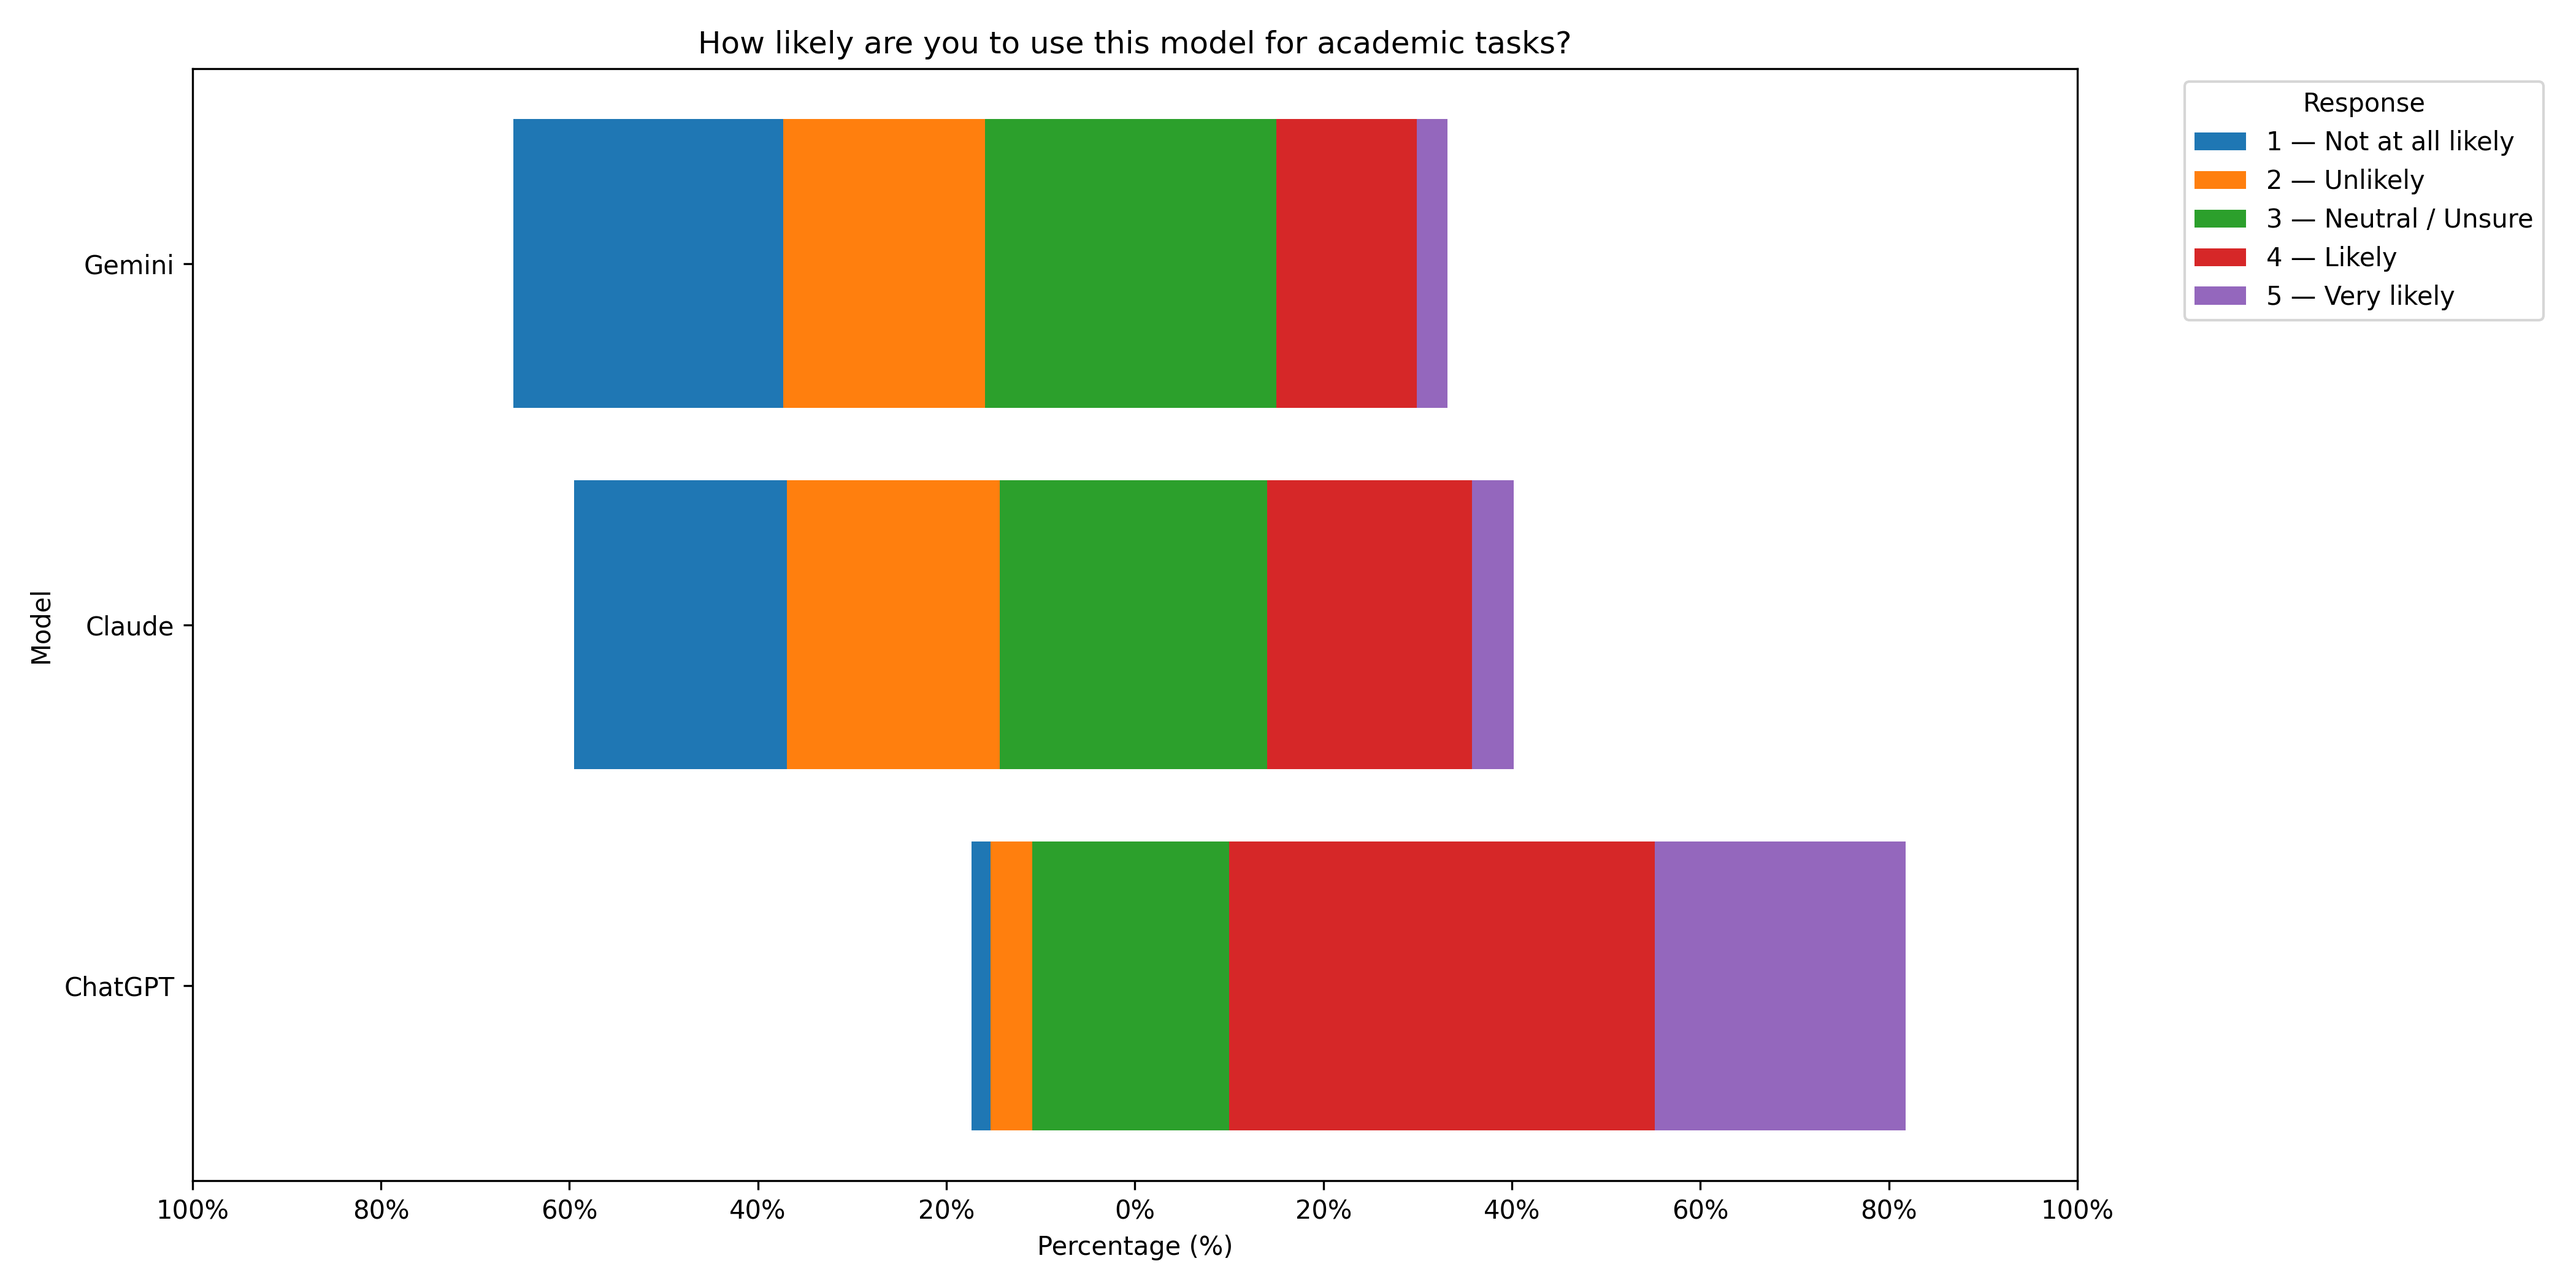
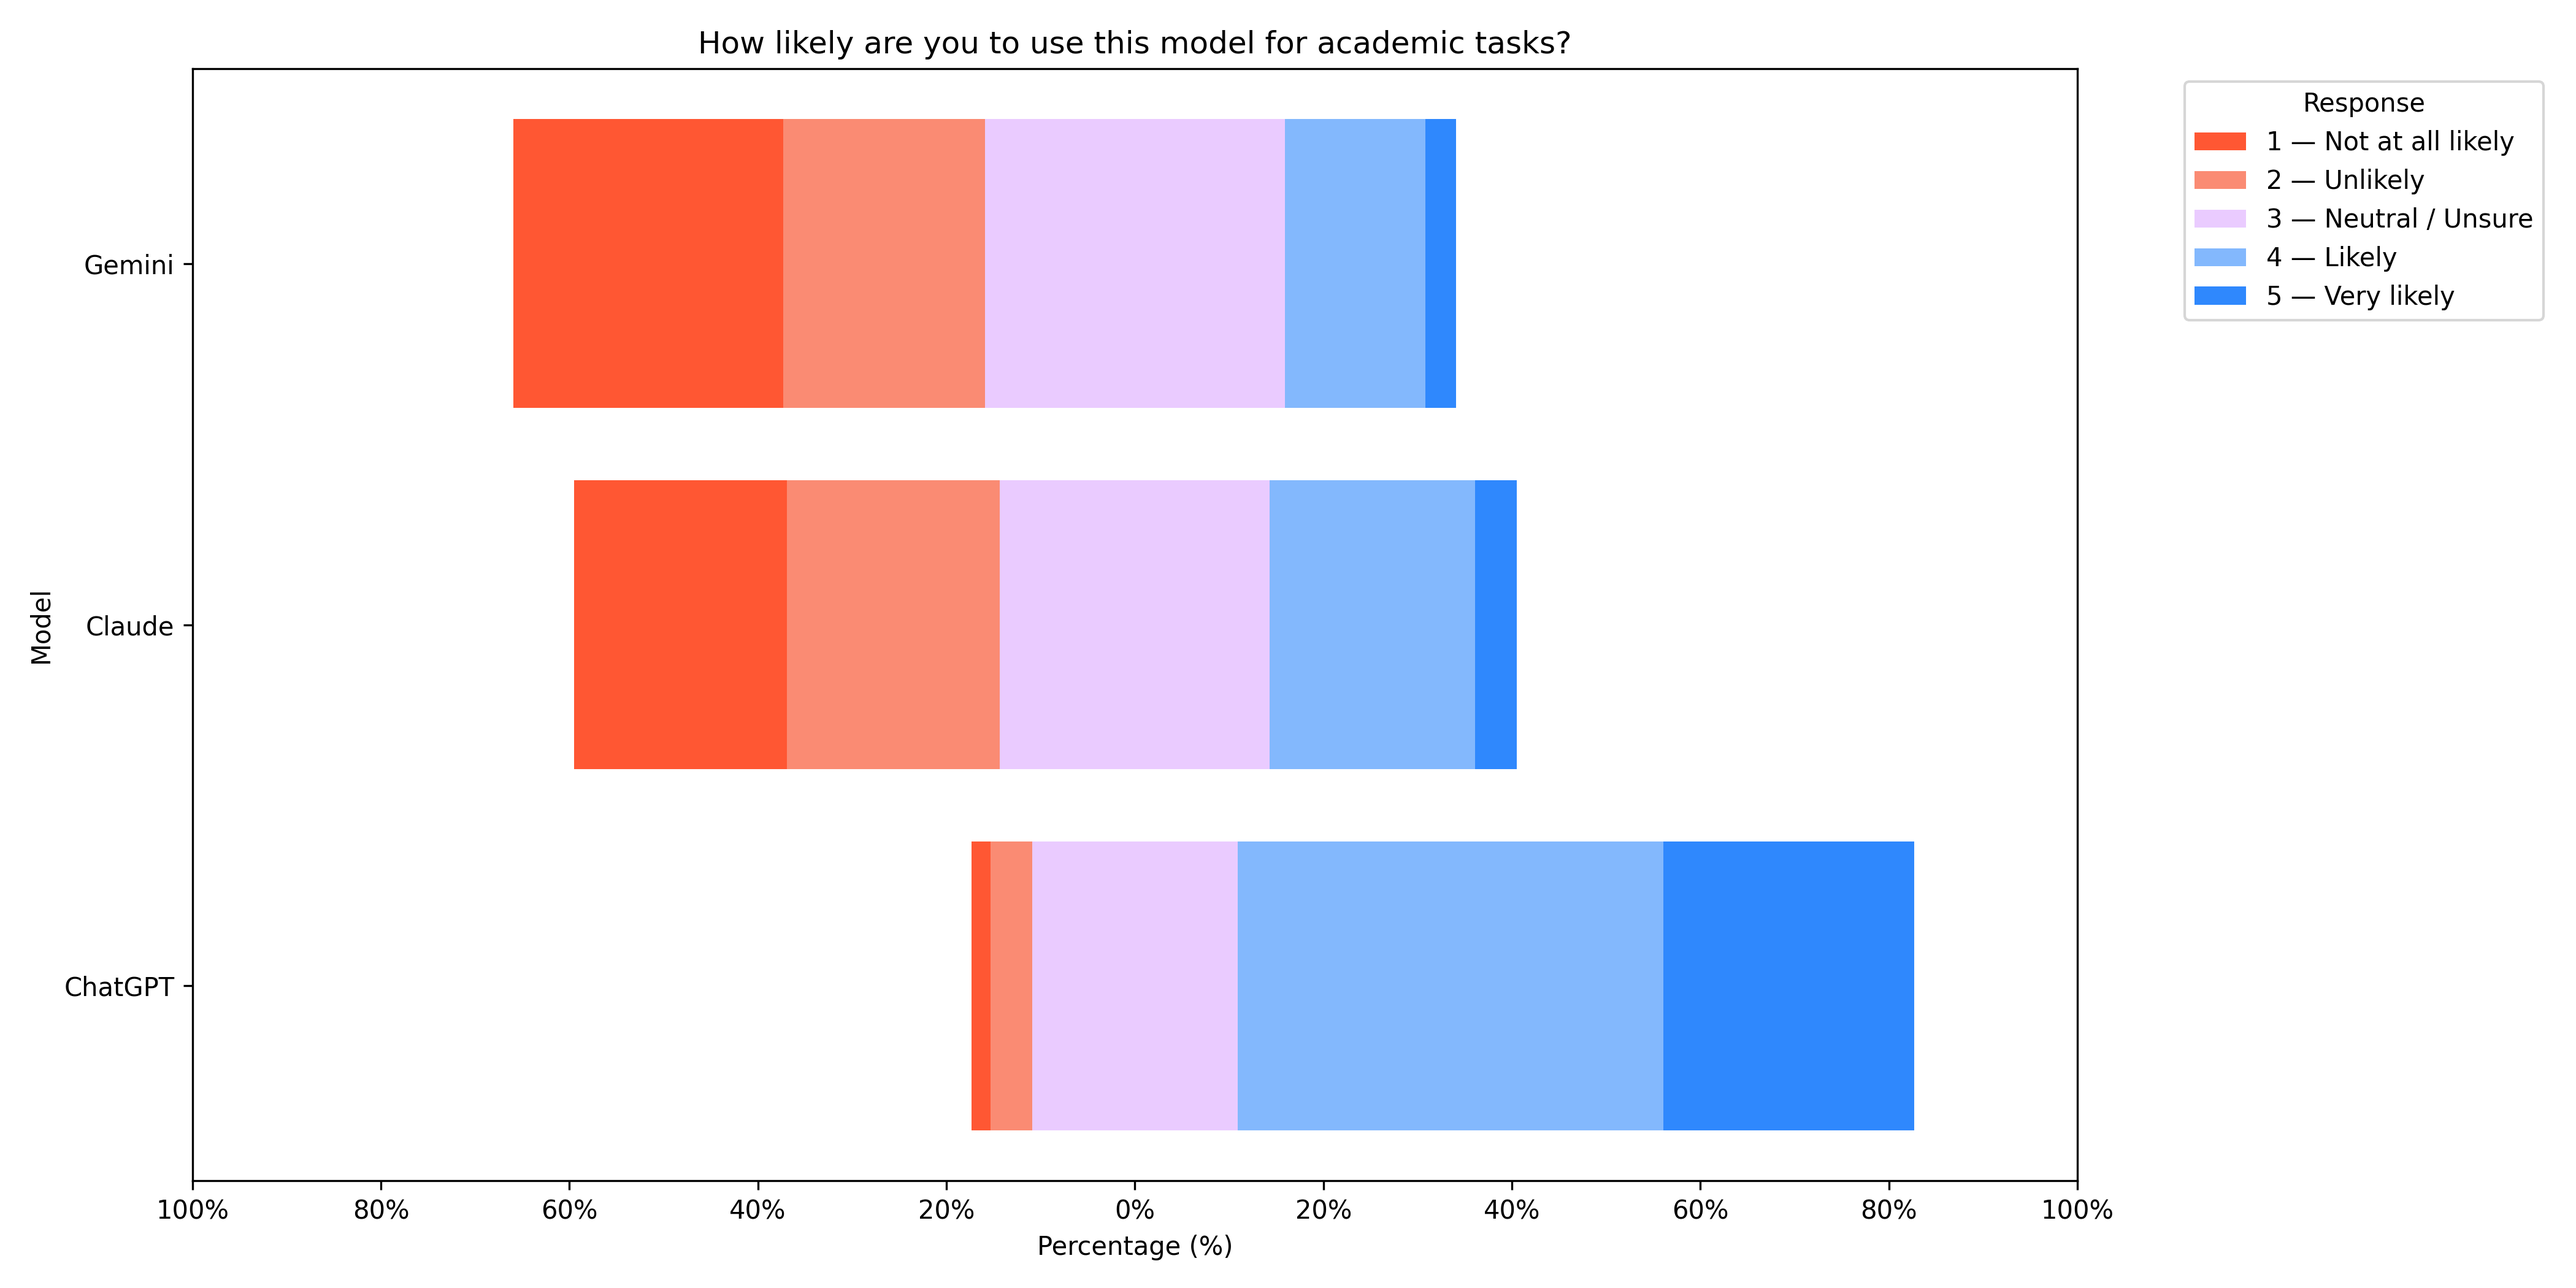
changed colour of plots & fixed code

diff --git a/scripts/eda.py b/scripts/eda.py
@@ -4,6 +4,7 @@ from pathlib import Path
 import matplotlib.pyplot as plt
 import numpy as np
 
+#categories
 multiple_categorical_col = ['Which types of tasks do you feel this model handles best? (Select all that apply.)', 
                    'For which types of tasks do you feel this model tends to give suboptimal responses? (Select all that apply.)']
 
@@ -15,6 +16,9 @@ single_categorical_col = ['How likely are you to use this model for academic tas
 long_response_col = ['In your own words, what kinds of tasks would you use this model for?',
                      'Think of one task where this model gave you a suboptimal response. What did the response look like, and why did you find it suboptimal?',
                     'When you verify a response from this model, how do you usually go about it?' ]
+
+#colors for likhert plot
+colors = ["#FF5733", "#FA8B73", "#EACBFF", "#83B8FD", "#2F88FD"]
 
 
 #reading in data, get just first 743
@@ -39,7 +43,7 @@ def num_long_response(n: int):
     return dic
 
 #plot single categorical across labels, likhert plot
-def plot_single_category(categories = single_categorical_col):
+def likhert_plot(categories = single_categorical_col):
     for category in categories:
         plt.figure(figsize=(14, 7))
 
@@ -56,46 +60,26 @@ def plot_single_category(categories = single_categorical_col):
         temp['int_y'] = temp['int_y'].astype(int)
 
         # count responses by label and integer value & convert to %
-        counts = temp.groupby(['label', 'int_y']).size().unstack(fill_value=0)
+        counts = temp.groupby(['label', 'int_y'], observed = False).size().unstack(fill_value=0)
         counts = counts.div(counts.sum(axis=1), axis=0) * 100
 
         # plot likhert
         midpoint = 3
+        color_index  = 0
 
-        # separate negative and positive sides
         neg_cols = sorted([col for col in counts.columns if col < midpoint])
-        pos_cols = sorted([col for col in counts.columns if col > midpoint])
 
-        # plot negative side
-        left_pos = -counts[neg_cols].sum(axis=1) - counts[3] / 2
-        for col in neg_cols:  # plot in order: 1, 2
+        left_pos = -counts[neg_cols].sum(axis = 1) - counts[3] / 2
+        for col in counts.columns:
             plt.barh(
                 counts.index,
                 counts[col],
                 left=left_pos,
-                label=str(col)
+                label=str(col),
+                color = colors[color_index]
             )
             left_pos += counts[col]
-
-        #plot neutral
-        left_pos = -counts[3] / 2
-        plt.barh(
-            counts.index,
-            counts[3],
-            left = left_pos,
-            label = str(col)
-        )
-
-        # plot positive side
-        left_pos = pd.Series(counts[3] // 2, index=counts.index)
-        for col in pos_cols:
-            plt.barh(
-                counts.index,
-                counts[col],
-                left=left_pos,
-                label=str(col)
-            )
-            left_pos += counts[col]
+            color_index += 1
 
         plt.title(category)
         plt.xlabel('Percentage (%)')
@@ -127,7 +111,7 @@ def plot_length():
         temp['length_bin'] = pd.cut(temp['count'], bins=bins, labels=bin_labels, right=True)
         
         # count per bin
-        grouped = temp.groupby(['label', 'length_bin']).size().unstack(fill_value=0)
+        grouped = temp.groupby(['label', 'length_bin'], observed = False).size().unstack(fill_value=0)
         
         # multi-bar
         plt.figure(figsize=(14, 6))
@@ -157,5 +141,5 @@ def plot_length():
 if __name__ == "__main__":
     # print(num_unique())
     # print(num_long_response(10))
-    plot_single_category()
-    plot_length()
+    likhert_plot()
+    # plot_length()
